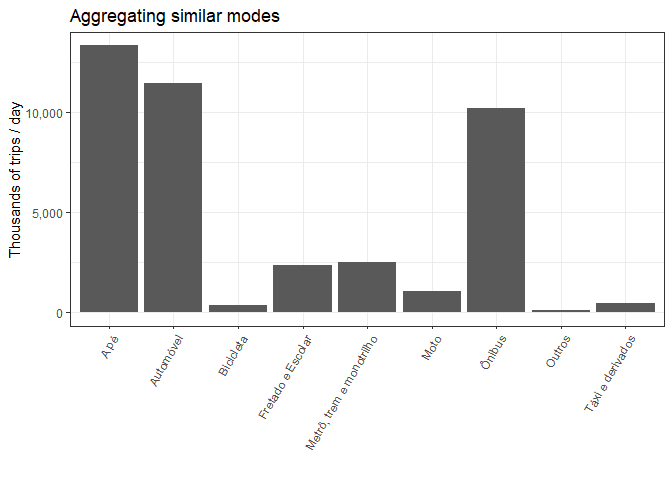
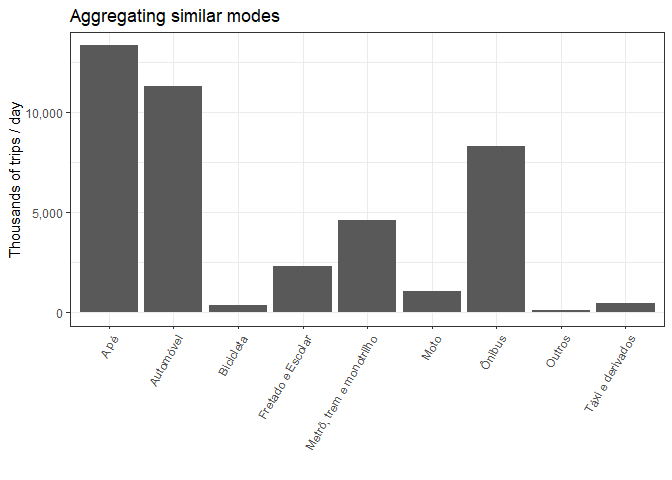
modo1 -> modoprin, + first maps

Changed region(s): [[0.5, 0.4375, 0.5938, 0.5625], [0.6875, 0.2188, 0.7812, 0.3125], [0.2188, 0.1562, 0.3125, 0.1875]]

diff --git a/exploring.md b/exploring.md
@@ -18,7 +18,8 @@ and `modo4`). There is also the coordinates for each residence
 and obviously the origin and destination zones and coordinates
 (e.g. `zona_o`, `co_o_x`, `co_o_y`) and euclidean distance. As you can
 see in the graph below, the vast majority of trips are made using just
-one mode. I use `modo1`in the remaining graphs.
+one mode. I use the main mode used in the trip (`modoprin`) in the
+remaining graphs.
 
 ![](exploring_files/figure-gfm/unnamed-chunk-2-1.png)<!-- -->
 
@@ -38,3 +39,11 @@ first is based on the “vehicle” itself, and the other relies on the
 ![](exploring_files/figure-gfm/unnamed-chunk-4-1.png)<!-- -->
 
 ![](exploring_files/figure-gfm/unnamed-chunk-5-1.png)<!-- -->
+
+### Basic geographic analysis
+
+![](exploring_files/figure-gfm/unnamed-chunk-7-1.png)<!-- -->
+
+Plotting only the São Paulo City.
+
+![](exploring_files/figure-gfm/unnamed-chunk-8-1.png)<!-- -->
